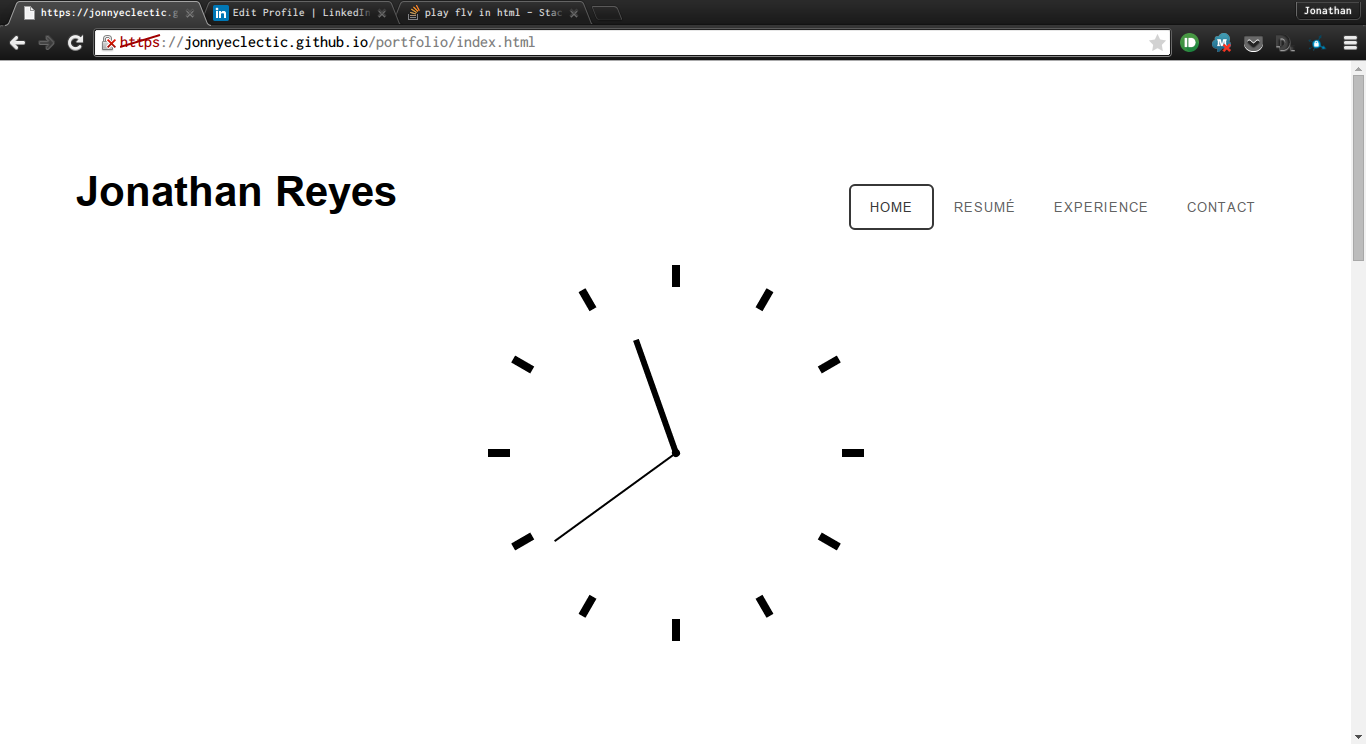
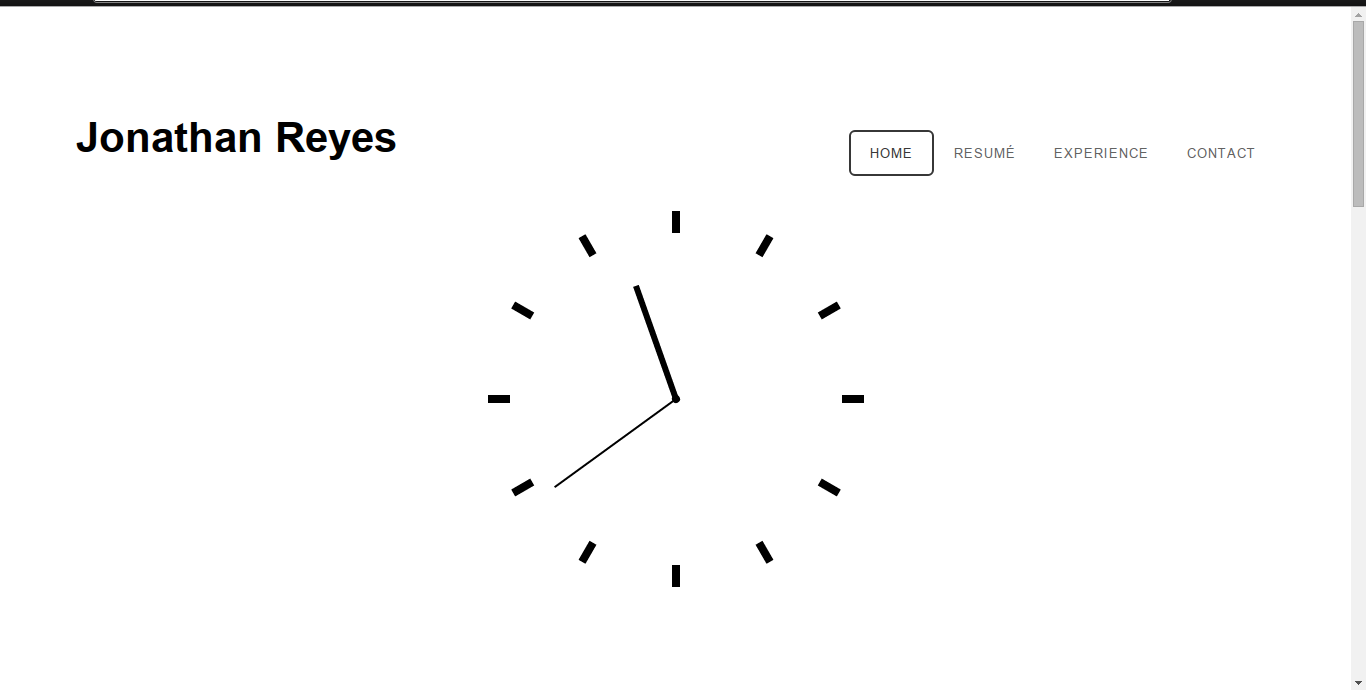
commit

diff --git a/experience.html b/experience.html
@@ -80,18 +80,18 @@ Released   : 20140228
 
 <div class="css-slideshow">
     <figure>
-        <img src="images/restauraminator.png" alt="class-header-css3" width="495" height="370" class="alignnone size-full wp-image-172" /><figcaption><strong>Restauraminator</strong> </figcaption>
+        <img src="images/restauraminator.png" alt="class-header-css3" width="640" height="480" class="alignnone size-full wp-image-172" /><figcaption><strong>Restauraminator</strong> </figcaption>
     </figure>
     <figure>
-        <img src="images/clock.png" alt="class-header-semantics" width="495" height="370" class="alignnone size-full wp-image-179" /><figcaption><strong>Portfolio Page:</strong> </figcaption>
+        <img src="images/clock.png" alt="class-header-semantics" width="640" height="480" class="alignnone size-full wp-image-179" /><figcaption><strong>Portfolio Page:</strong> </figcaption>
     </figure>
     <figure>
-        <img src="images/FinalResumeReyes.pdf" alt="class-header-css3" width="495" height="370" class="alignnone size-full wp-image-172" /><figcaption><strong>Vote UNT</strong> </figcaption>
+        <img src="images/FinalResumeReyes.pdf" alt="class-header-css3" width="640" height="480" class="alignnone size-full wp-image-172" /><figcaption><strong>Vote UNT</strong> </figcaption>
     </figure>
     <figure>
         <video loop id="video1" class="video-js vjs-default-skin" width="640" height="480"
                data-setup='{"controls" : true, "autoplay" : true, "preload" : "auto"}'>
-            <source src="images/2015-05-20%2011-27-13.flv" type="video/x-flv">
+            <source src="images/megabitman.flv" type="video/x-flv">
         </video>
         <figcaption><strong>MegabitMan</strong> </figcaption>
     </figure>
